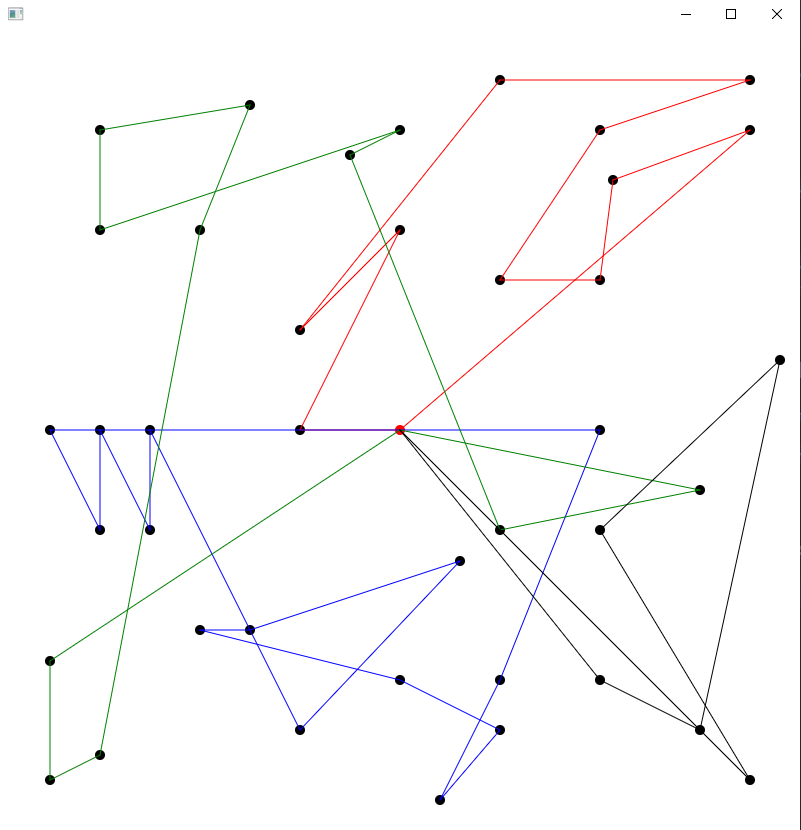
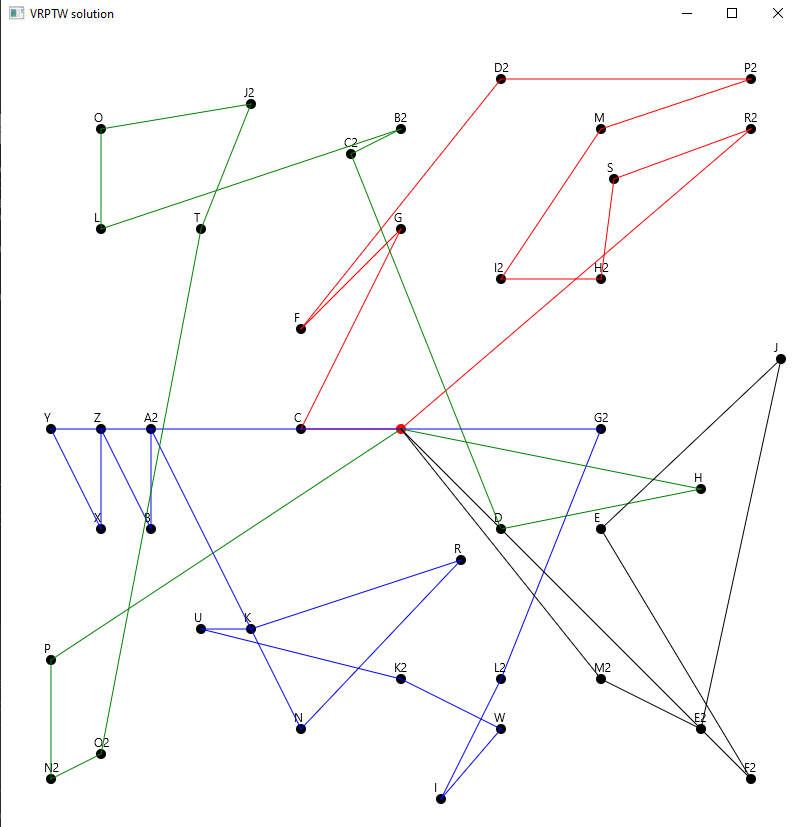
Added node names to javaFX app.

diff --git a/src/main/java/VRP_Main_Fx.java b/src/main/java/VRP_Main_Fx.java
@@ -5,6 +5,7 @@ import javafx.scene.paint.Color;
 import javafx.scene.paint.Paint;
 import javafx.scene.shape.Circle;
 import javafx.scene.shape.Line;
+import javafx.scene.text.Text;
 import javafx.stage.Stage;
 import pl.polsl.model.Node;
 import pl.polsl.model.SolutionResults;
@@ -37,18 +38,26 @@ public class VRP_Main_Fx extends Application {
             if (route.size() == 1) {
                 continue;
             }
-            Color color = colors[vehicleIndex];
+            Color color;
+            if (vehicleIndex < colors.length) {
+                color = colors[vehicleIndex];
+            } else {
+                color = Color.color(Math.random(), Math.random(), Math.random());
+            }
             for (int i = 0; i < route.size() - 1; i++) {
+                Node node = nodesMap.get(route.get(i + 1));
                 if (route.get(i + 1) != 0) {
-                    circle = createCircle(nodesMap.get(route.get(i + 1)), Color.BLACK);
+                    circle = createCircle(node, Color.BLACK);
+                    Text text = new Text(node.getX() - 7, node.getY() - 7, node.getName());
                     root.getChildren().add(circle);
+                    root.getChildren().add(text);
                 }
                 Line line = new Line();
                 line.setStroke(color);
                 line.setStartX(nodesMap.get(route.get(i)).getX());
                 line.setStartY(nodesMap.get(route.get(i)).getY());
-                line.setEndX(nodesMap.get(route.get(i + 1)).getX());
-                line.setEndY(nodesMap.get(route.get(i + 1)).getY());
+                line.setEndX(node.getX());
+                line.setEndY(node.getY());
                 root.getChildren().add(line);
             }
             vehicleIndex++;
@@ -56,6 +65,7 @@ public class VRP_Main_Fx extends Application {
 
         Scene scene = new Scene(root, 800, 800);
         stage.setScene(scene);
+        stage.setTitle("VRPTW solution");
         stage.show();
     }
 

diff --git a/README.md b/README.md
@@ -53,10 +53,11 @@ Example of running JavFx application:
 
 As a result of this operation, a window with routes (each vehicle with different color) will be presented as shown below:
 
-![Visual result](readmeImages/result_fx.png)
+![JavaFX result](readmeImages/result_fx.png)
 
 # Input file
 
 Input file must be in .csv format with specific headers:
+
 **_name;x;y;demand;availableFrom;availableTo;serviceTime_**
 
